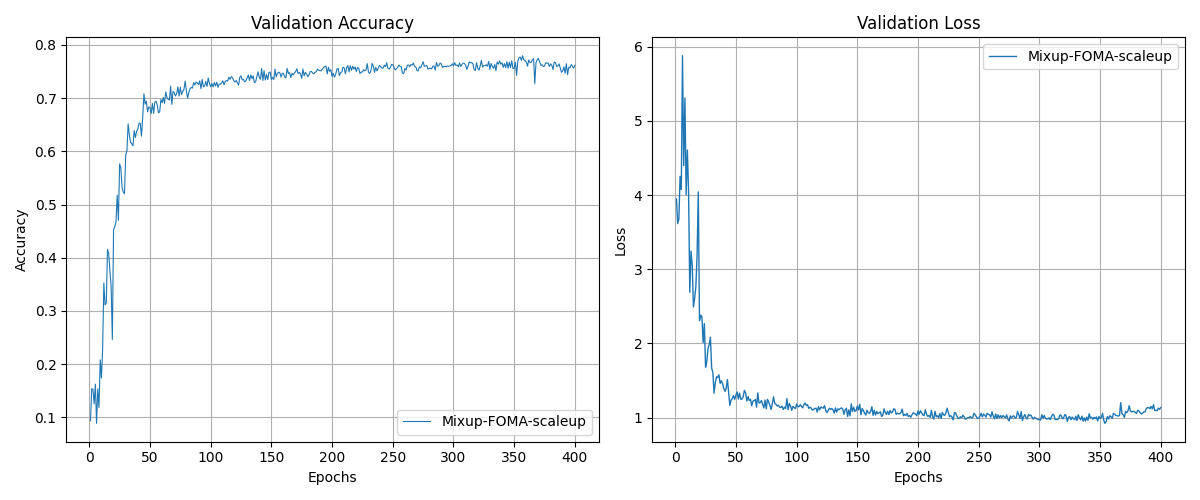
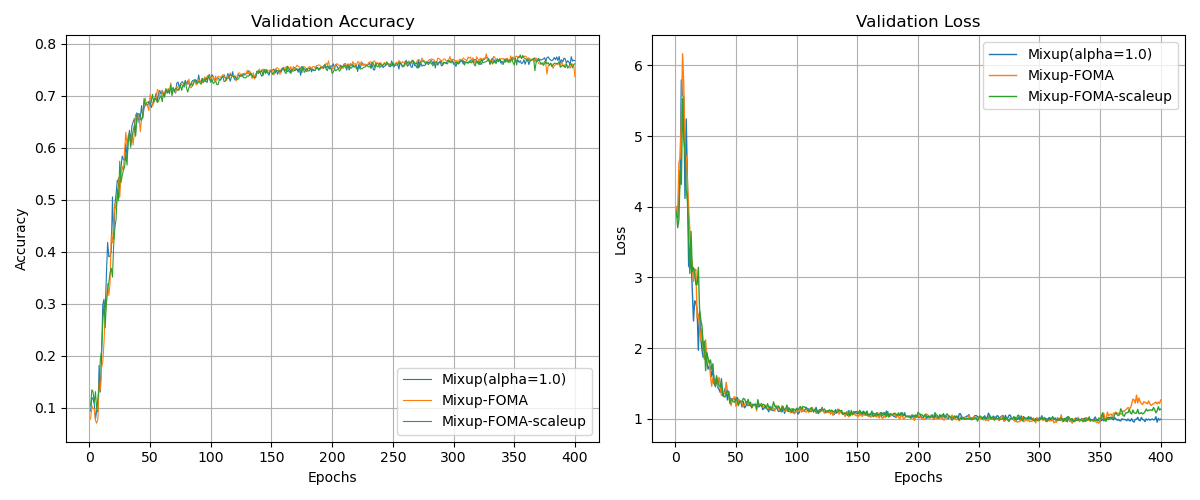
mix-foma

diff --git a/train.py b/train.py
@@ -19,7 +19,7 @@ from torch.utils.data import DataLoader, random_split, Subset
 from src.methods.foma import foma
 
 augmentations = [
-    # "Mixup-FOMA",
+    "Mixup-FOMA",
     "Mixup-FOMA-scaleup",
     # "Default",
     # "Mixup",
@@ -62,7 +62,7 @@ augmentations = [
 ]
 
 def main():
-    for i in range(3, 5):
+    for i in range(3):
         parser = argparse.ArgumentParser()
         parser.add_argument("--epochs",     type=int, default=400)
         parser.add_argument("--data_type",  type=str, default="cifar100",  choices=["stl10", "cifar100", "cifar10"])

diff --git a/src/utils.py b/src/utils.py
@@ -37,9 +37,9 @@ def train(model, train_loader, criterion, optimizer, device, augment, num_classe
     train_acc  = 0.0
     history = {"alpha": []}
     if num_classes == 100:
-        t_mixup = 350
+        t_mixup = 380
     elif num_classes == 10:
-        t_mixup = 220
+        t_mixup = 230
     
     mixup_fn   = Mixup(alpha=1.0, mode="batch", num_classes=num_classes)
     skmixup_fn = KernelMixup(alpha=1.0, mode="batch", num_classes=num_classes, warping="beta_cdf", tau_max=1.0, tau_std=0.25, lookup_size=4096,)

diff --git a/result.py b/result.py
@@ -19,12 +19,12 @@ def main():
     
     augmentations = [
         # "Default",
-        # "Mixup",
+        "Mixup",
         # "Manifold-Mixup",
         # "CutMix",
         # "RegMixup",
         # "Local-FOMA",
-        # "Mixup-FOMA",
+        "Mixup-FOMA",
         "Mixup-FOMA-scaleup"
 
         # "Original",
